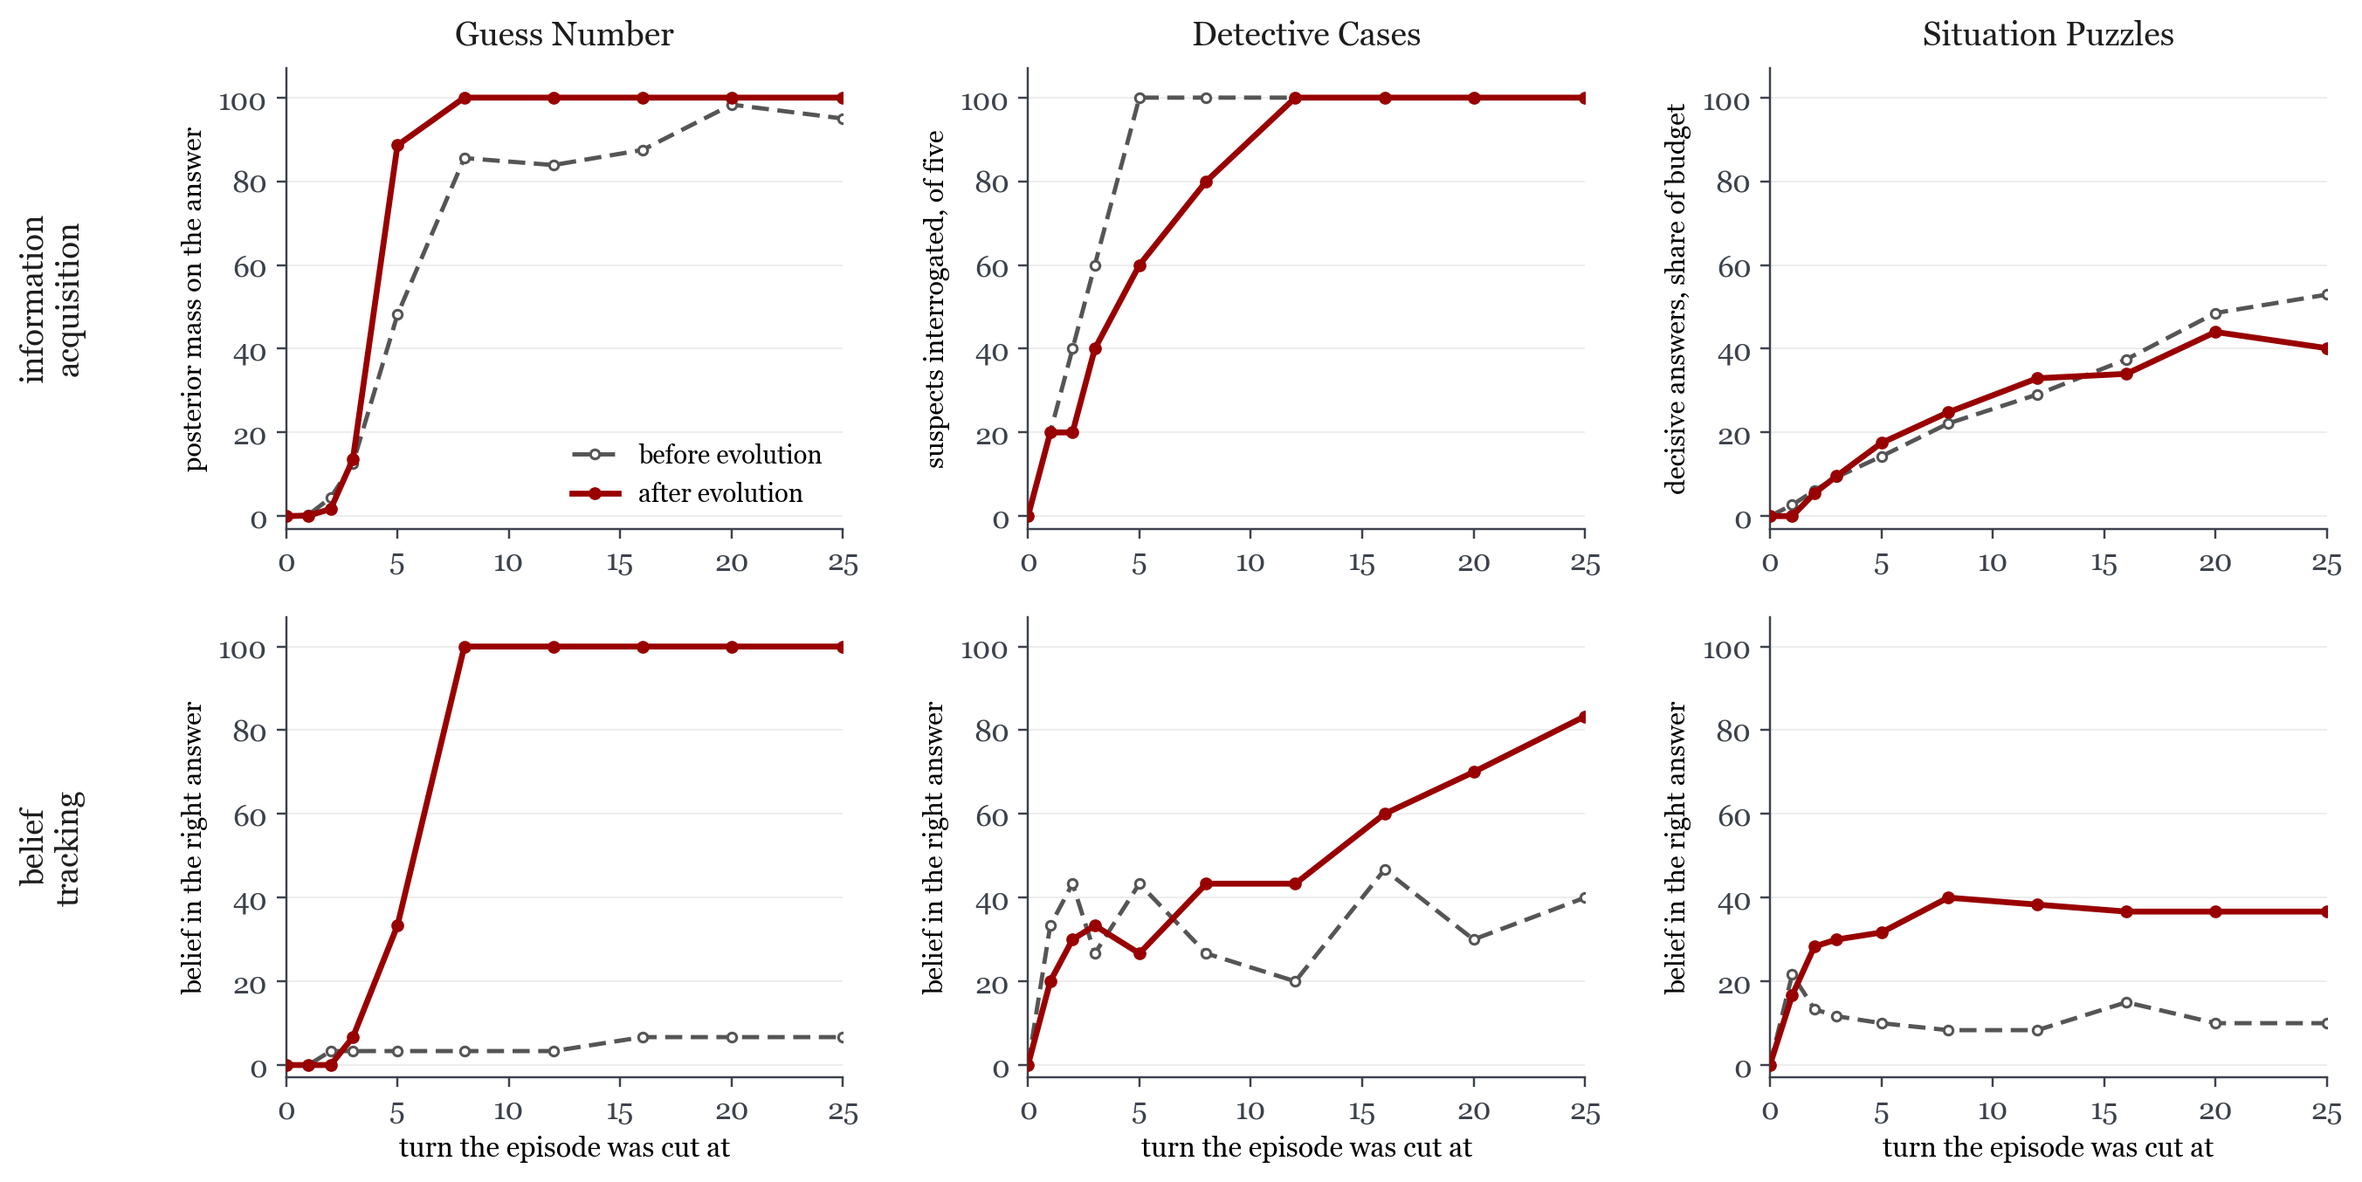
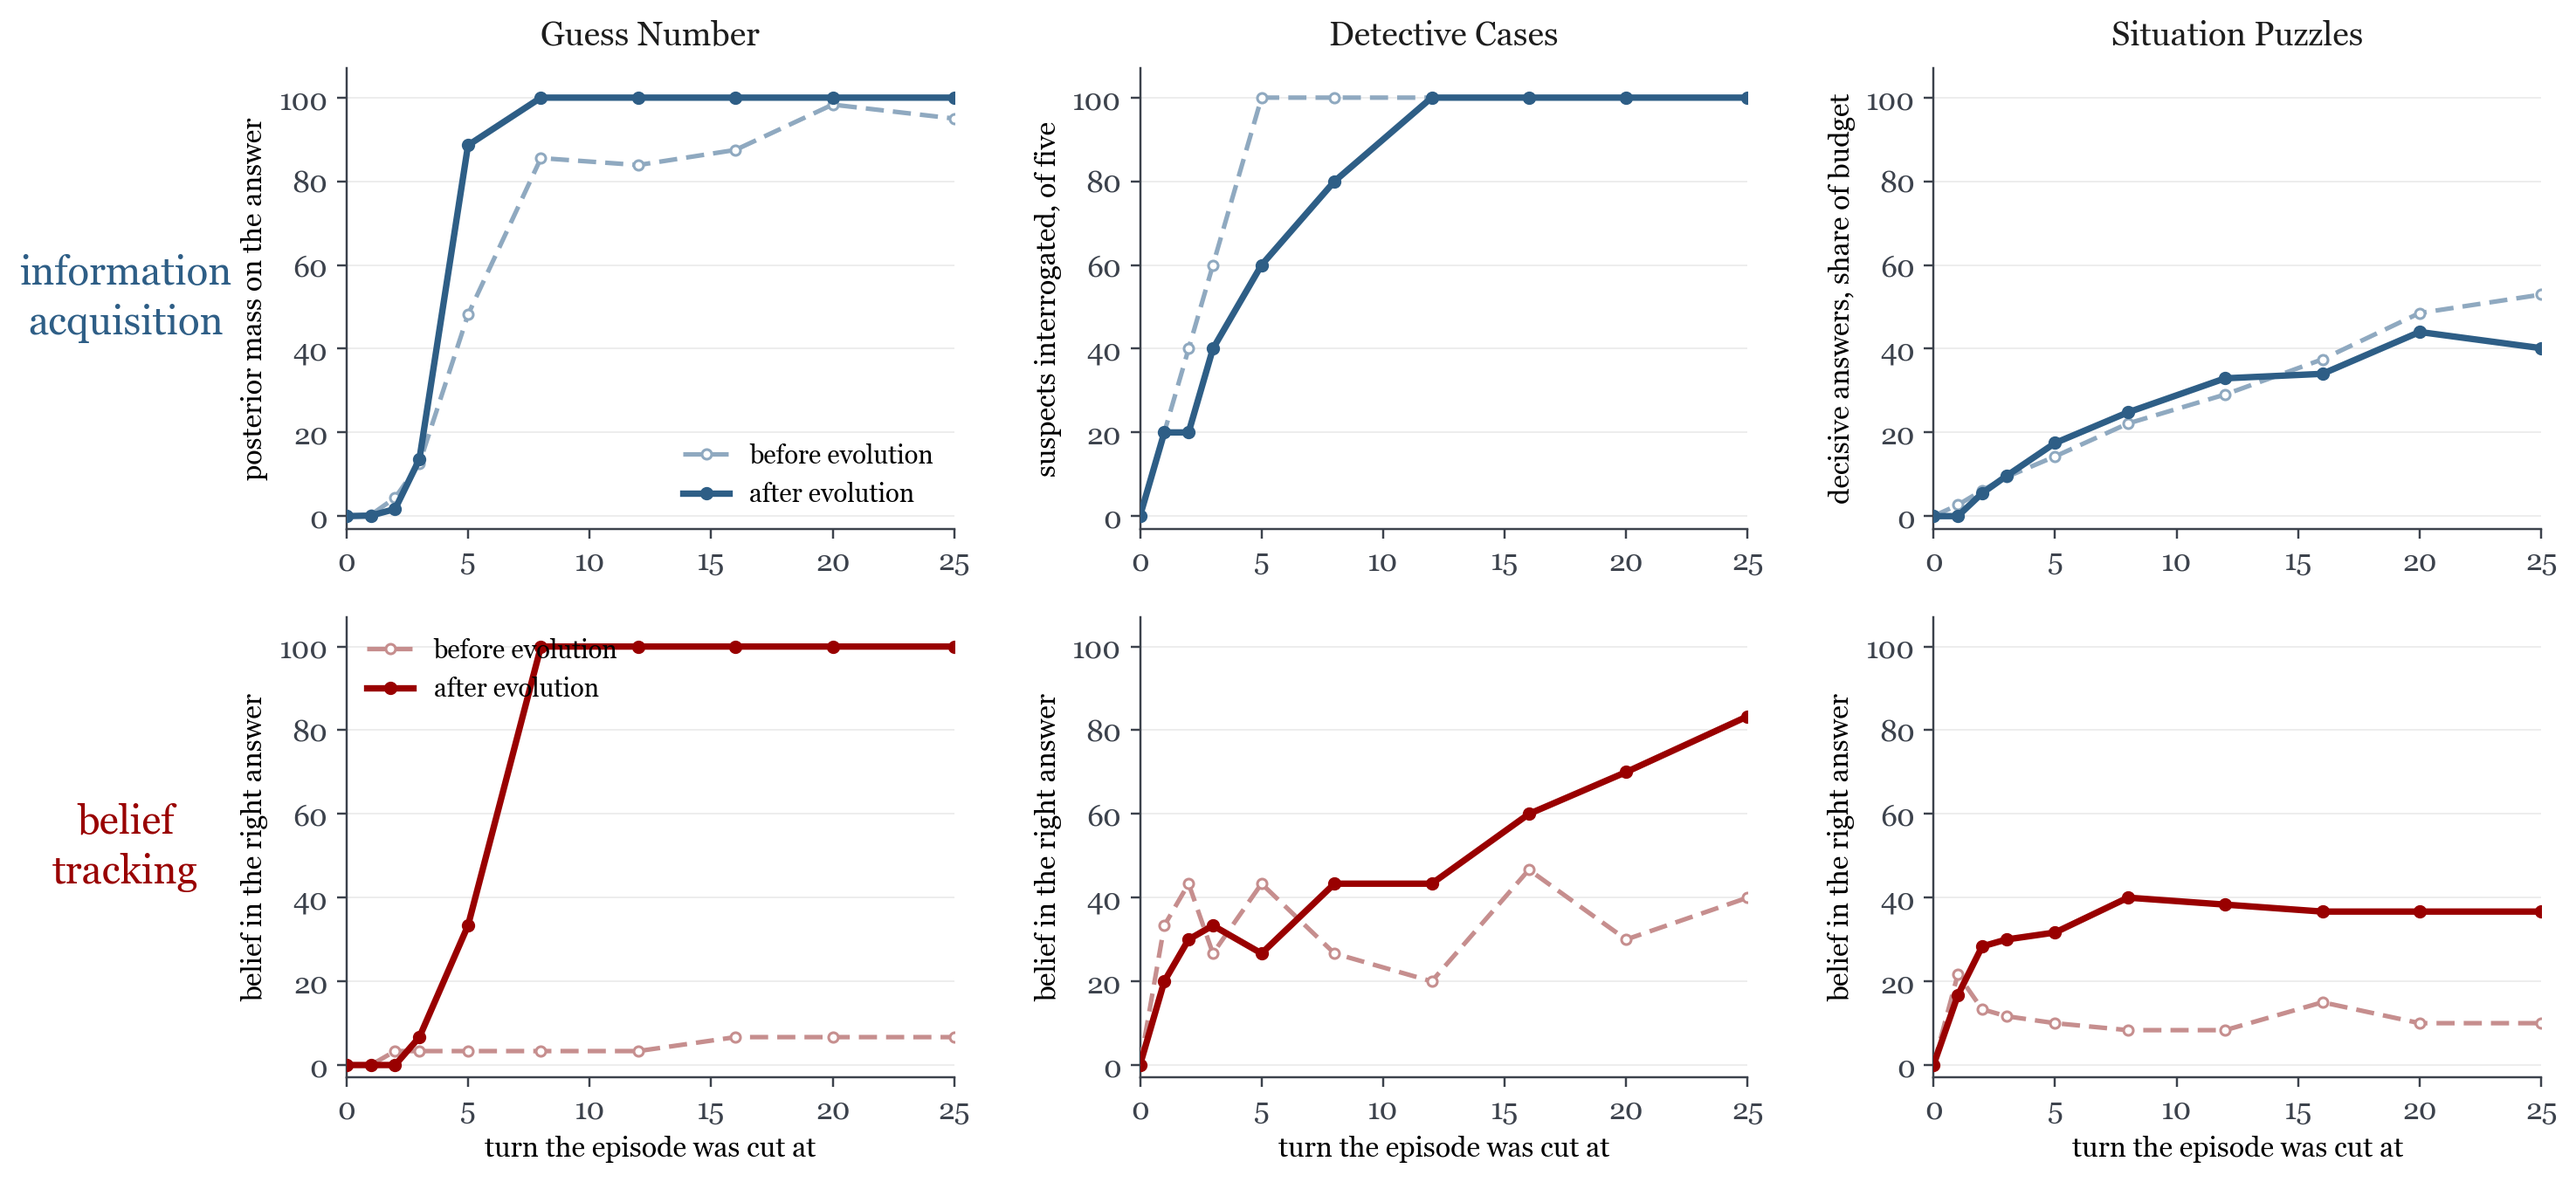
figure: a hue per ability, and the row names read horizontally
Both rows were drawn in the same accent, so colour said nothing and the row
names were tilted onto their sides. Now information acquisition is slate blue
and belief tracking is the deck's red, with each row's before-evolution line the
same hue lightened and dashed -- the pair still separates in greyscale by line
style. The row names sit horizontally in a left gutter, larger, in their row's
colour.

The legend moves with the row: IA climbs to a ceiling and leaves the bottom
right free, BT stays low before evolution and leaves the top left.

diff --git a/meta/tools/plot_ia_bt.py b/meta/tools/plot_ia_bt.py
@@ -33,11 +33,16 @@ matplotlib.use("Agg")
 import matplotlib.pyplot as plt
 
 SLIDES = os.environ.get("SLIDES") == "1"
+# One hue per ability, so a glance at the colour says which row you are in. Within a row, the
+# before-evolution line is the same hue lightened and dashed, which keeps the pair legible in
+# greyscale as well.
 if SLIDES:
-    ACC, INK, MUTE, FAINT = "#990000", "#1D1D1D", "#555555", "#AAAAAA"
+    INK, FAINT = "#1D1D1D", "#AAAAAA"
+    HUE = {"ia": ("#8FA9C0", "#2E5E86"), "bt": ("#C68E8E", "#990000")}
     FAM, FAMKEY = ["Georgia", "Times New Roman", "DejaVu Serif"], "serif"
 else:
-    ACC, INK, MUTE, FAINT = "#b4530f", "#1c1f26", "#6b7382", "#b8bec7"
+    INK, FAINT = "#1c1f26", "#b8bec7"
+    HUE = {"ia": ("#93aec4", "#2f6286"), "bt": ("#d3a083", "#b4530f")}
     FAM, FAMKEY = ["Helvetica Neue", "Helvetica", "Arial", "DejaVu Sans"], "sans-serif"
 
 plt.rcParams.update({
@@ -59,26 +64,30 @@ TASKS = [("Guess Number", "gn_template_zero_shot", "gn_packed_group_echo",
           "decisive answers, share of budget")]
 TASKS = [t for t in TASKS if t[1] in data and t[2] in data]
 
-fig, axes = plt.subplots(2, len(TASKS), figsize=(4.1 * len(TASKS), 6.2), squeeze=False)
+fig, axes = plt.subplots(2, len(TASKS), figsize=(4.1 * len(TASKS) + 1.0, 6.2), squeeze=False)
 
 
-def draw(ax, Ts, before, after, ylab, show_legend):
-    for series, col, lw, ls, ms, lab in (
-            (before, MUTE, 1.6, (0, (4, 2)), 3.4, "before evolution"),
-            (after, ACC, 2.2, "-", 3.8, "after evolution")):
+def draw(ax, Ts, before, after, ylab, show_legend, hue):
+    pale, full = HUE[hue]
+    for series, col, lw, ls, ms, mfc, lab in (
+            (before, pale, 1.7, (0, (4, 2)), 3.6, "white", "before evolution"),
+            (after, full, 2.4, "-", 4.0, full, "after evolution")):
         if series is None:
             continue
         xs = [0] + [t for t, v in zip(Ts, series) if v is not None]
         ys = [0] + [v for v in series if v is not None]
-        ax.plot(xs, ys, color=col, lw=lw, ls=ls, marker="o", ms=ms,
-                mfc="white" if col is MUTE else col, label=lab, zorder=3)
+        ax.plot(xs, ys, color=col, lw=lw, ls=ls, marker="o", ms=ms, mec=col,
+                mfc=mfc, label=lab, zorder=3)
     ax.set_xlim(0, Ts[-1])
     ax.set_ylim(-3, 107)
     ax.grid(axis="y", color="#ECECEC", lw=0.6)
     ax.set_axisbelow(True)
-    ax.set_ylabel(ylab, fontsize=10 if SLIDES else 8.4)
+    ax.set_ylabel(ylab, fontsize=10.5 if SLIDES else 8.6)
     if show_legend:
-        ax.legend(frameon=False, fontsize=9.6 if SLIDES else 7.8, loc="lower right",
+        # The two rows have their empty corner in different places: IA climbs to a ceiling and
+        # leaves the bottom right, BT stays low before evolution and leaves the top left.
+        ax.legend(frameon=False, fontsize=9.6 if SLIDES else 7.8,
+                  loc="lower right" if hue == "ia" else "upper left",
                   handlelength=1.8, borderaxespad=0.4)
 
 
@@ -87,23 +96,23 @@ for col, (title, before, after, ialab) in enumerate(TASKS):
     Ts = b["turns"]
     top, bot = axes[0][col], axes[1][col]
 
-    draw(top, Ts, b.get("ia"), a.get("ia"), ialab, col == 0)
+    draw(top, Ts, b.get("ia"), a.get("ia"), ialab, col == 0, "ia")
     top.set_title(title, fontsize=12.5 if SLIDES else 10.4, color=INK, pad=9)
     if a.get("ia") is None and b.get("ia") is None:
         top.text(0.5, 0.5, "no proxy on this task", transform=top.transAxes, ha="center",
                  va="center", fontsize=10 if SLIDES else 8, color=FAINT)
 
-    draw(bot, Ts, b["bt"], a["bt"], "belief in the right answer", False)
+    draw(bot, Ts, b["bt"], a["bt"], "belief in the right answer", col == 0, "bt")
     bot.set_xlabel("turn the episode was cut at", fontsize=10.5 if SLIDES else 8.8)
 
-axes[0][0].annotate("information\nacquisition", xy=(-0.42, 0.5), xycoords="axes fraction",
-                    ha="center", va="center", rotation=90, fontsize=12 if SLIDES else 10,
-                    color=INK)
-axes[1][0].annotate("belief\ntracking", xy=(-0.42, 0.5), xycoords="axes fraction",
-                    ha="center", va="center", rotation=90, fontsize=12 if SLIDES else 10,
-                    color=INK)
-
-fig.tight_layout(pad=0.8, h_pad=1.4, w_pad=2.2)
+# The row names read horizontally in a left gutter, in that row's own colour, so they are read
+# once rather than tilted into.
+GUT = 1.0 / (4.1 * len(TASKS) + 1.0)
+fig.tight_layout(pad=0.8, h_pad=1.4, w_pad=2.2, rect=(GUT, 0, 1, 1))
+for r, (name, hue) in enumerate((("information\nacquisition", "ia"), ("belief\ntracking", "bt"))):
+    bb = axes[r][0].get_position()
+    fig.text(GUT * 0.52, (bb.y0 + bb.y1) / 2, name, ha="center", va="center",
+             fontsize=15 if SLIDES else 12.5, color=HUE[hue][1], linespacing=1.35)
 name = "fig_ia_bt%s.png" % ("_slides" if SLIDES else "")
 fig.savefig(out / name, bbox_inches="tight", facecolor="white")
 print("  " + name)
